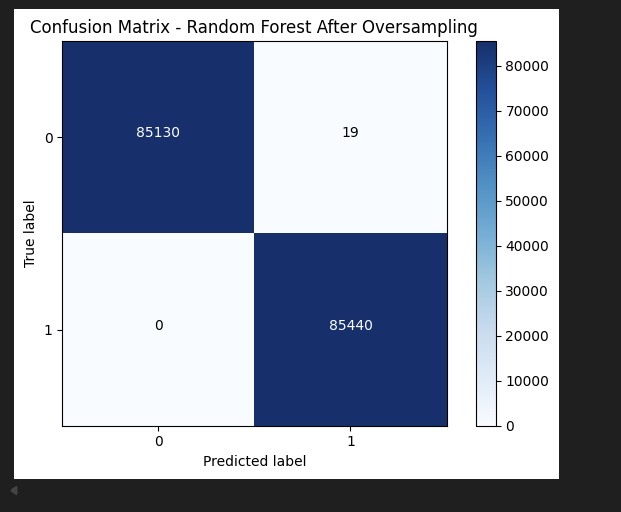
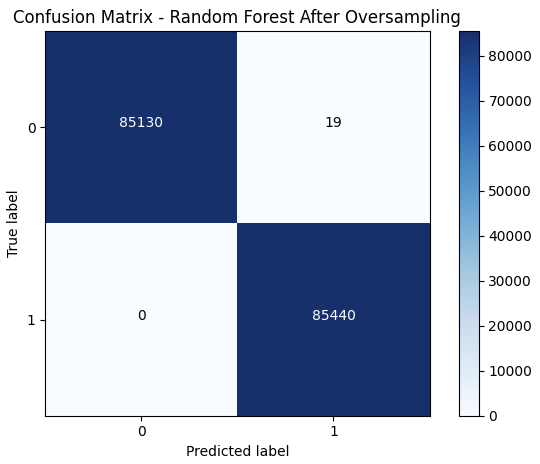
portfolio

diff --git a/templates/portfolio.html b/templates/portfolio.html
@@ -14,145 +14,166 @@
         <p>These are just some of the many projects that we have delivered in the recent days</p>
       </div><!-- End Section Title -->
 
-      <div class="container">
+     <div class="container">
+    <div class="isotope-layout" data-default-filter="*" data-layout="fitRows" data-sort="original-order">
 
-        <div class="isotope-layout" data-default-filter="*" data-layout="masonry" data-sort="original-order">
-
-          <ul class="portfolio-filters isotope-filters" data-aos="fade-up" data-aos-delay="100">
+        <ul class="portfolio-filters isotope-filters" data-aos="fade-up" data-aos-delay="100">
             <li data-filter="*" class="filter-active">All</li>
             <li data-filter=".filter-app">App</li>
             <li data-filter=".filter-product">Product</li>
             <li data-filter=".filter-branding">Branding</li>
             <li data-filter=".filter-books">Books</li>
-          </ul><!-- End Portfolio Filters -->
+        </ul><!-- End Portfolio Filters -->
 
-          <div class="row gy-4 isotope-container" data-aos="fade-up" data-aos-delay="200">
+        <div class="row gy-4 isotope-container" data-aos="fade-up" data-aos-delay="200">
 
             <div class="col-lg-4 col-md-6 portfolio-item isotope-item filter-app">
-              <div class="portfolio-content h-100">
-                <a href="{% static 'assets/img/portfolio/portfolio-1.webp' %}" data-gallery="portfolio-gallery-app" class="glightbox"><img src="{% static 'assets/img/LMS.jpeg'%}" class="img-fluid" alt=""></a>
-                <div class="portfolio-info">
-                  <h4><a href="portfolio.html" title="More Details">LMS</a></h4>
-                  <p>A comprehensive Learning Management application that incorporates all academic features including library</p>
+                <div class="portfolio-content h-100">
+                    <a href="{% static 'assets/img/portfolio/portfolio-1.webp' %}" data-gallery="portfolio-gallery-app" class="glightbox">
+                        <img src="{% static 'assets/img/LMS.jpeg'%}" class="img-fluid" alt="">
+                    </a>
+                    <div class="portfolio-info">
+                        <h4><a href="portfolio.html" title="More Details">LMS</a></h4>
+                        <p>A comprehensive Learning Management application that incorporates all academic features including library</p>
+                    </div>
                 </div>
-              </div>
             </div><!-- End Portfolio Item -->
 
             <div class="col-lg-4 col-md-6 portfolio-item isotope-item filter-product">
-              <div class="portfolio-content h-100">
-                <a href="{% static 'assets/img/portfolio/portfolio-10.webp' %}" data-gallery="portfolio-gallery-app" class="glightbox"><img src="{% static 'assets/img/frauddetector.png'%}" class="img-fluid" alt=""></a>
-                <div class="portfolio-info">
-                  <h4><a href="portfolio.html" title="More Details">Transaction Fraud Detector</a></h4>
-                  <p>This is a machine learning model application that detects fraudulent transactions in mobile money transfer and credit cards</p>
+                <div class="portfolio-content h-100">
+                    <a href="{% static 'assets/img/portfolio/portfolio-10.webp' %}" data-gallery="portfolio-gallery-app" class="glightbox">
+                        <img src="{% static 'assets/img/frauddetector.png'%}" class="img-fluid" alt="">
+                    </a>
+                    <div class="portfolio-info">
+                        <h4><a href="portfolio.html" title="More Details">Transaction Fraud Detector</a></h4>
+                        <p>This is a machine learning model application that detects fraudulent transactions in mobile money transfer and credit cards</p>
+                    </div>
                 </div>
-              </div>
             </div><!-- End Portfolio Item -->
 
             <div class="col-lg-4 col-md-6 portfolio-item isotope-item filter-branding">
-              <div class="portfolio-content h-100">
-                <a href="{% static 'assets/img/portfolio/portfolio-7.webp' %}" data-gallery="portfolio-gallery-app" class="glightbox"><img src="{% static 'assets/img/fx.png'%}" class="img-fluid" alt=""></a>
-                <div class="portfolio-info">
-                  <h4><a href="portfolio.html" title="More Details">FXT Bot</a></h4>
-                  <p>A trading bot that helps predict stock prices enabling the user make informed decisions on buy and sell of stocks in the stock market</p>
+                <div class="portfolio-content h-100">
+                    <a href="{% static 'assets/img/portfolio/portfolio-7.webp' %}" data-gallery="portfolio-gallery-app" class="glightbox">
+                        <img src="{% static 'assets/img/fx.png'%}" class="img-fluid" alt="">
+                    </a>
+                    <div class="portfolio-info">
+                        <h4><a href="portfolio.html" title="More Details">FXT Bot</a></h4>
+                        <p>A trading bot that helps predict stock prices enabling the user make informed decisions on buy and sell of stocks in the stock market</p>
+                    </div>
                 </div>
-              </div>
             </div><!-- End Portfolio Item -->
 
             <div class="col-lg-4 col-md-6 portfolio-item isotope-item filter-books">
-              <div class="portfolio-content h-100">
-                <a href="{% static 'assets/img/portfolio/portfolio-4.webp' %}" data-gallery="portfolio-gallery-app" class="glightbox"><img src="{% static 'assets/img/portfolio/portfolio-4.webp'%}" class="img-fluid" alt=""></a>
-                <div class="portfolio-info">
-                  <h4><a href="portfolio.html" title="More Details">IMS</a></h4>
-                  <p>An Inventory Management system application tha enables enterprises monitor and manage their products in stocks and make decisions on which to restock and which are in high demand</p>
+                <div class="portfolio-content h-100">
+                    <a href="{% static 'assets/img/portfolio/portfolio-4.webp' %}" data-gallery="portfolio-gallery-app" class="glightbox">
+                        <img src="{% static 'assets/img/IMS.webp'%}" class="img-fluid" alt="">
+                    </a>
+                    <div class="portfolio-info">
+                        <h4><a href="portfolio.html" title="More Details">IMS</a></h4>
+                        <p>An Inventory Management system application that enables enterprises monitor and manage their products in stocks and make decisions on which to restock and which are in high demand</p>
+                    </div>
                 </div>
-              </div>
             </div><!-- End Portfolio Item -->
 
             <div class="col-lg-4 col-md-6 portfolio-item isotope-item filter-app">
-              <div class="portfolio-content h-100">
-                <a href="{% static 'assets/img/portfolio/portfolio-2.webp' %}" data-gallery="portfolio-gallery-app" class="glightbox"><img src="{% static 'assets/img/uniquest.png'%}" class="img-fluid" alt=""></a>
-                <div class="portfolio-info">
-                  <h4><a href="portfolio.html" title="More Details">UniQuest Travels</a></h4>
-                  <p>This is a tours and travel web application that focuses on tour guides for various destinations across kenya</p>
+                <div class="portfolio-content h-100">
+                    <a href="{% static 'assets/img/portfolio/portfolio-2.webp' %}" data-gallery="portfolio-gallery-app" class="glightbox">
+                        <img src="{% static 'assets/img/uniquest.png'%}" class="img-fluid" alt="">
+                    </a>
+                    <div class="portfolio-info">
+                        <h4><a href="portfolio.html" title="More Details">UniQuest Travels</a></h4>
+                        <p>This is a tours and travel web application that focuses on tour guides for various destinations across Kenya</p>
+                    </div>
                 </div>
-              </div>
             </div><!-- End Portfolio Item -->
 
             <div class="col-lg-4 col-md-6 portfolio-item isotope-item filter-product">
-              <div class="portfolio-content h-100">
-                <a href="{% static 'assets/img/portfolio/portfolio-11.webp' %}" data-gallery="portfolio-gallery-app" class="glightbox"><img src="{% static 'assets/img/portfolio/portfolio-11.webp'%}" class="img-fluid" alt=""></a>
-                <div class="portfolio-info">
-                  <h4><a href="portfolio.html" title="More Details">Parkinson's disease detector</a></h4>
-                  <p>A machine Learning model application that helps detect the deadly parkinson's disease in the early stages of development for early medication and treatment</p>
+                <div class="portfolio-content h-100">
+                    <a href="{% static 'assets/img/portfolio/portfolio-11.webp' %}" data-gallery="portfolio-gallery-app" class="glightbox">
+                        <img src="{% static 'assets/img/Parkinson.jpg'%}" class="img-fluid" alt="">
+                    </a>
+                    <div class="portfolio-info">
+                        <h4><a href="portfolio.html" title="More Details">Parkinson's disease detector</a></h4>
+                        <p>A machine Learning model application that helps detect the deadly parkinson's disease in the early stages of development for early medication and treatment</p>
+                    </div>
                 </div>
-              </div>
             </div><!-- End Portfolio Item -->
 
             <div class="col-lg-4 col-md-6 portfolio-item isotope-item filter-branding">
-              <div class="portfolio-content h-100">
-                <a href="{% static 'assets/img/portfolio/portfolio-8.webp' %}" data-gallery="portfolio-gallery-app" class="glightbox"><img src="{% static 'assets/img/portfolio/portfolio-8.webp'%}" class="img-fluid" alt=""></a>
-                <div class="portfolio-info">
-                  <h4><a href="portfolio.html" title="More Details">eVoting System</a></h4>
-                  <p>An electronic voting system that emphasizes on security, transparent and trustworthy electoral process</p>
+                <div class="portfolio-content h-100">
+                    <a href="{% static 'assets/img/portfolio/portfolio-8.webp' %}" data-gallery="portfolio-gallery-app" class="glightbox">
+                        <img src="{% static 'assets/img/evoting.jpg'%}" class="img-fluid" alt="">
+                    </a>
+                    <div class="portfolio-info">
+                        <h4><a href="portfolio.html" title="More Details">eVoting System</a></h4>
+                        <p>An electronic voting system that emphasizes on security, transparent and trustworthy electoral process</p>
+                    </div>
                 </div>
-              </div>
             </div><!-- End Portfolio Item -->
 
-            <div class="col-lg-4 col-md-6 portfolio-item isotope-item filter-books">
-              <div class="portfolio-content h-100">
-                <a href="{% static 'assets/img/portfolio/portfolio-5.webp' %}" data-gallery="portfolio-gallery-app" class="glightbox"><img src="{% static 'assets/img/portfolio/portfolio-5.webp'%}" class="img-fluid" alt=""></a>
-                <div class="portfolio-info">
-                  <h4><a href="portfolio.html" title="More Details">Books 2</a></h4>
-                  <p>Lorem ipsum, dolor sit amet consectetur</p>
-                </div>
-              </div>
-            </div><!-- End Portfolio Item -->
+<!--            <div class="col-lg-4 col-md-6 portfolio-item isotope-item filter-books">-->
+<!--                <div class="portfolio-content h-100">-->
+<!--                    <a href="{% static 'assets/img/portfolio/portfolio-5.webp' %}" data-gallery="portfolio-gallery-app" class="glightbox">-->
+<!--                        <img src="{% static 'assets/img/portfolio/portfolio-5.webp'%}" class="img-fluid" alt="">-->
+<!--                    </a>-->
+<!--                    <div class="portfolio-info">-->
+<!--                        <h4><a href="portfolio.html" title="More Details">Books 2</a></h4>-->
+<!--                        <p>Lorem ipsum, dolor sit amet consectetur</p>-->
+<!--                    </div>-->
+<!--                </div>-->
+<!--            </div>&lt;!&ndash; End Portfolio Item &ndash;&gt;-->
 
             <div class="col-lg-4 col-md-6 portfolio-item isotope-item filter-app">
-              <div class="portfolio-content h-100">
-                <a href="{% static 'assets/img/portfolio/portfolio-3.webp' %}" data-gallery="portfolio-gallery-app" class="glightbox"><img src="{% static 'assets/img/portfolio/portfolio-3.webp'%}" class="img-fluid" alt=""></a>
-                <div class="portfolio-info">
-                  <h4><a href="portfolio.html" title="More Details">Dreamscape Realty</a></h4>
-                  <p>This is a smart real estate web application that uses machine learning algorithms to prevent fraud and help search and predict houses prices in Kenyan regions</p>
+                <div class="portfolio-content h-100">
+                    <a href="{% static 'assets/img/portfolio/portfolio-3.webp' %}" data-gallery="portfolio-gallery-app" class="glightbox">
+                        <img src="{% static 'assets/img/realestate.jpg'%}" class="img-fluid" alt="">
+                    </a>
+                    <div class="portfolio-info">
+                        <h4><a href="portfolio.html" title="More Details">Dreamscape Realty</a></h4>
+                        <p>This is a smart real estate web application that uses machine learning algorithms to prevent fraud and help search and predict houses prices in Kenyan regions</p>
+                    </div>
                 </div>
-              </div>
             </div><!-- End Portfolio Item -->
 
-            <div class="col-lg-4 col-md-6 portfolio-item isotope-item filter-product">
-              <div class="portfolio-content h-100">
-                <a href="{% static 'assets/img/portfolio/portfolio-12.webp' %}" data-gallery="portfolio-gallery-app" class="glightbox"><img src="{% static 'assets/img/portfolio/portfolio-12.webp'%}" class="img-fluid" alt=""></a>
-                <div class="portfolio-info">
-                  <h4><a href="portfolio.html" title="More Details">Product 3</a></h4>
-                  <p>Lorem ipsum, dolor sit amet consectetur</p>
-                </div>
-              </div>
-            </div><!-- End Portfolio Item -->
+<!--            <div class="col-lg-4 col-md-6 portfolio-item isotope-item filter-product">-->
+<!--                <div class="portfolio-content h-100">-->
+<!--                    <a href="{% static 'assets/img/portfolio/portfolio-12.webp' %}" data-gallery="portfolio-gallery-app" class="glightbox">-->
+<!--                        <img src="{% static 'assets/img/portfolio/portfolio-12.webp'%}" class="img-fluid" alt="">-->
+<!--                    </a>-->
+<!--                    <div class="portfolio-info">-->
+<!--                        <h4><a href="portfolio.html" title="More Details">Product 3</a></h4>-->
+<!--                        <p>Lorem ipsum, dolor sit amet consectetur</p>-->
+<!--                    </div>-->
+<!--                </div>-->
+<!--            </div>&lt;!&ndash; End Portfolio Item &ndash;&gt;-->
 
-            <div class="col-lg-4 col-md-6 portfolio-item isotope-item filter-branding">
-              <div class="portfolio-content h-100">
-                <a href="{% static 'assets/img/portfolio/portfolio-9.webp' %}" data-gallery="portfolio-gallery-app" class="glightbox"><img src="{% static 'assets/img/portfolio/portfolio-9.webp'%}" class="img-fluid" alt=""></a>
-                <div class="portfolio-info">
-                  <h4><a href="portfolio.html" title="More Details">Branding 3</a></h4>
-                  <p>Lorem ipsum, dolor sit amet consectetur</p>
-                </div>
-              </div>
-            </div><!-- End Portfolio Item -->
+<!--            <div class="col-lg-4 col-md-6 portfolio-item isotope-item filter-branding">-->
+<!--                <div class="portfolio-content h-100">-->
+<!--                    <a href="{% static 'assets/img/portfolio/portfolio-9.webp' %}" data-gallery="portfolio-gallery-app" class="glightbox">-->
+<!--                        <img src="{% static 'assets/img/portfolio/portfolio-9.webp'%}" class="img-fluid" alt="">-->
+<!--                    </a>-->
+<!--                    <div class="portfolio-info">-->
+<!--                        <h4><a href="portfolio.html" title="More Details">Branding 3</a></h4>-->
+<!--                        <p>Lorem ipsum, dolor sit amet consectetur</p>-->
+<!--                    </div>-->
+<!--                </div>-->
+<!--            </div>&lt;!&ndash; End Portfolio Item &ndash;&gt;-->
 
-            <div class="col-lg-4 col-md-6 portfolio-item isotope-item filter-books">
-              <div class="portfolio-content h-100">
-                <a href="{% static 'assets/img/portfolio/portfolio-6.webp' %}" data-gallery="portfolio-gallery-app" class="glightbox"><img src="{% static 'assets/img/portfolio/portfolio-6.webp'%}" class="img-fluid" alt=""></a>
-                <div class="portfolio-info">
-                  <h4><a href="portfolio.html" title="More Details">Books 3</a></h4>
-                  <p>Lorem ipsum, dolor sit amet consectetur</p>
-                </div>
-              </div>
-            </div><!-- End Portfolio Item -->
+<!--            <div class="col-lg-4 col-md-6 portfolio-item isotope-item filter-books">-->
+<!--                <div class="portfolio-content h-100">-->
+<!--                    <a href="{% static 'assets/img/portfolio/portfolio-6.webp' %}" data-gallery="portfolio-gallery-app" class="glightbox">-->
+<!--                        <img src="{% static 'assets/img/portfolio/portfolio-6.webp'%}" class="img-fluid" alt="">-->
+<!--                    </a>-->
+<!--                    <div class="portfolio-info">-->
+<!--                        <h4><a href="portfolio.html" title="More Details">Books 3</a></h4>-->
+<!--                        <p>Lorem ipsum, dolor sit amet consectetur</p>-->
+<!--                    </div>-->
+<!--                </div>-->
+<!--            </div>&lt;!&ndash; End Portfolio Item &ndash;&gt;-->
 
-          </div><!-- End Portfolio Container -->
-
-        </div>
-
-      </div>
+        </div><!-- End Portfolio Container -->
+    </div>
+</div>
 
     </section><!-- /Portfolio Section -->
 